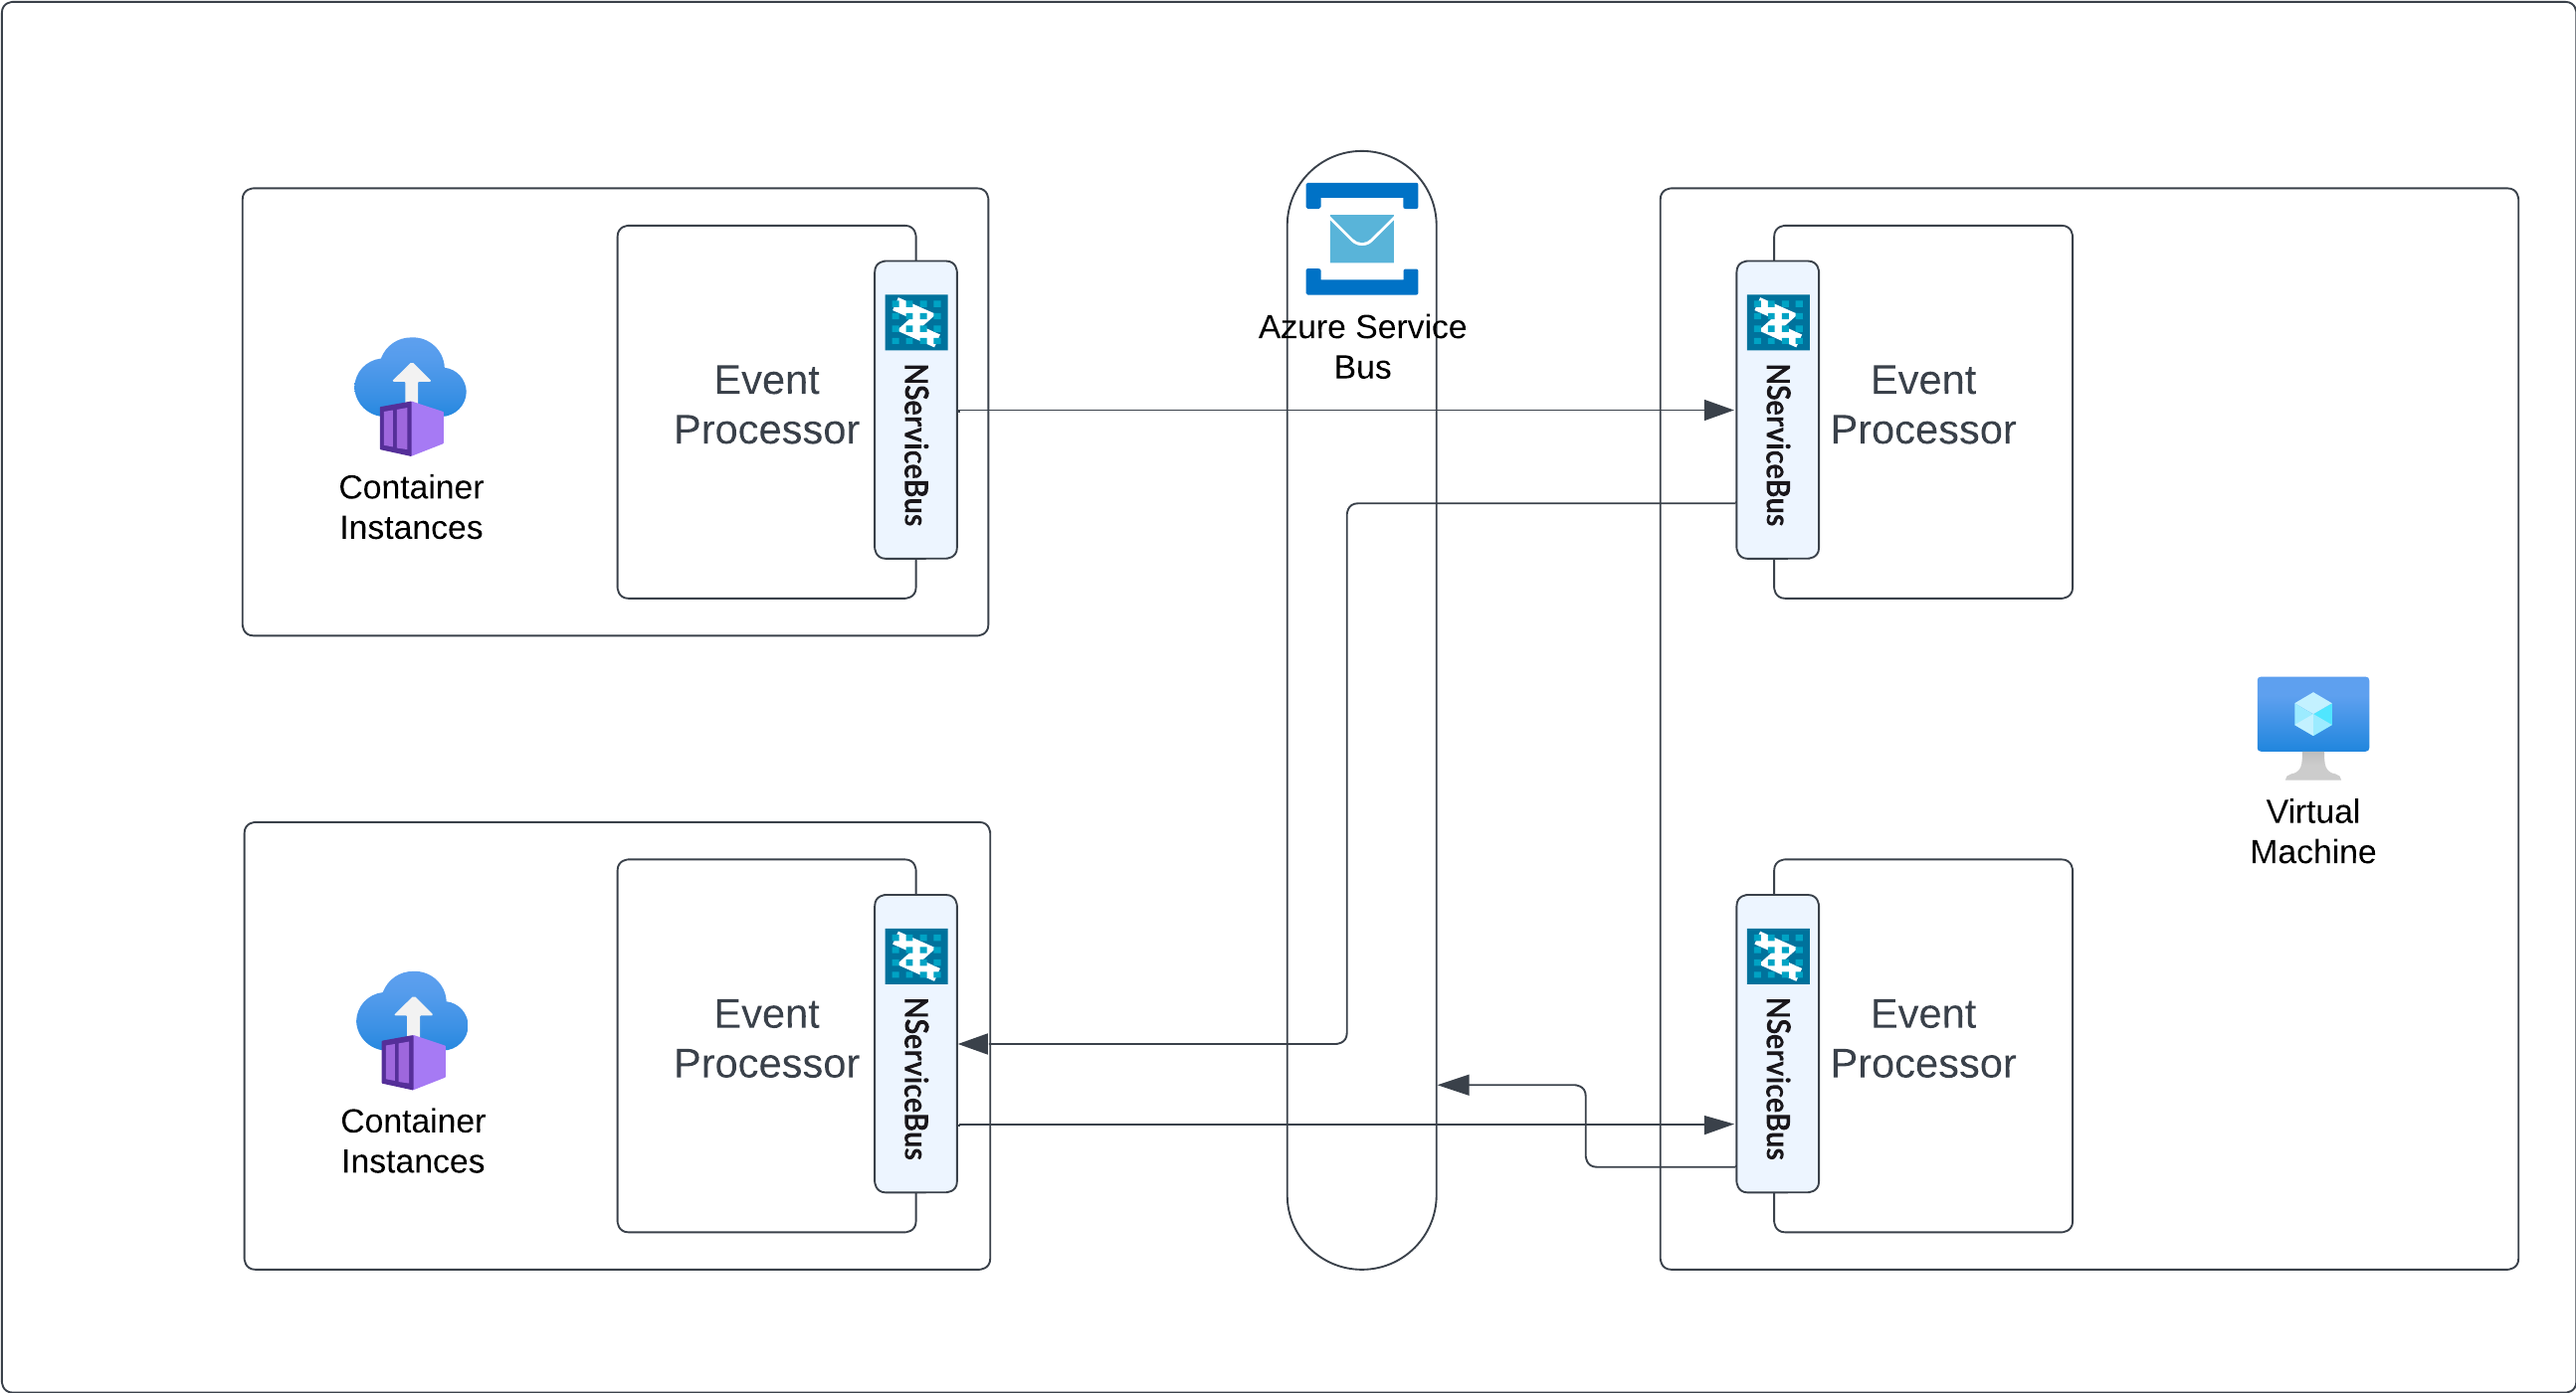
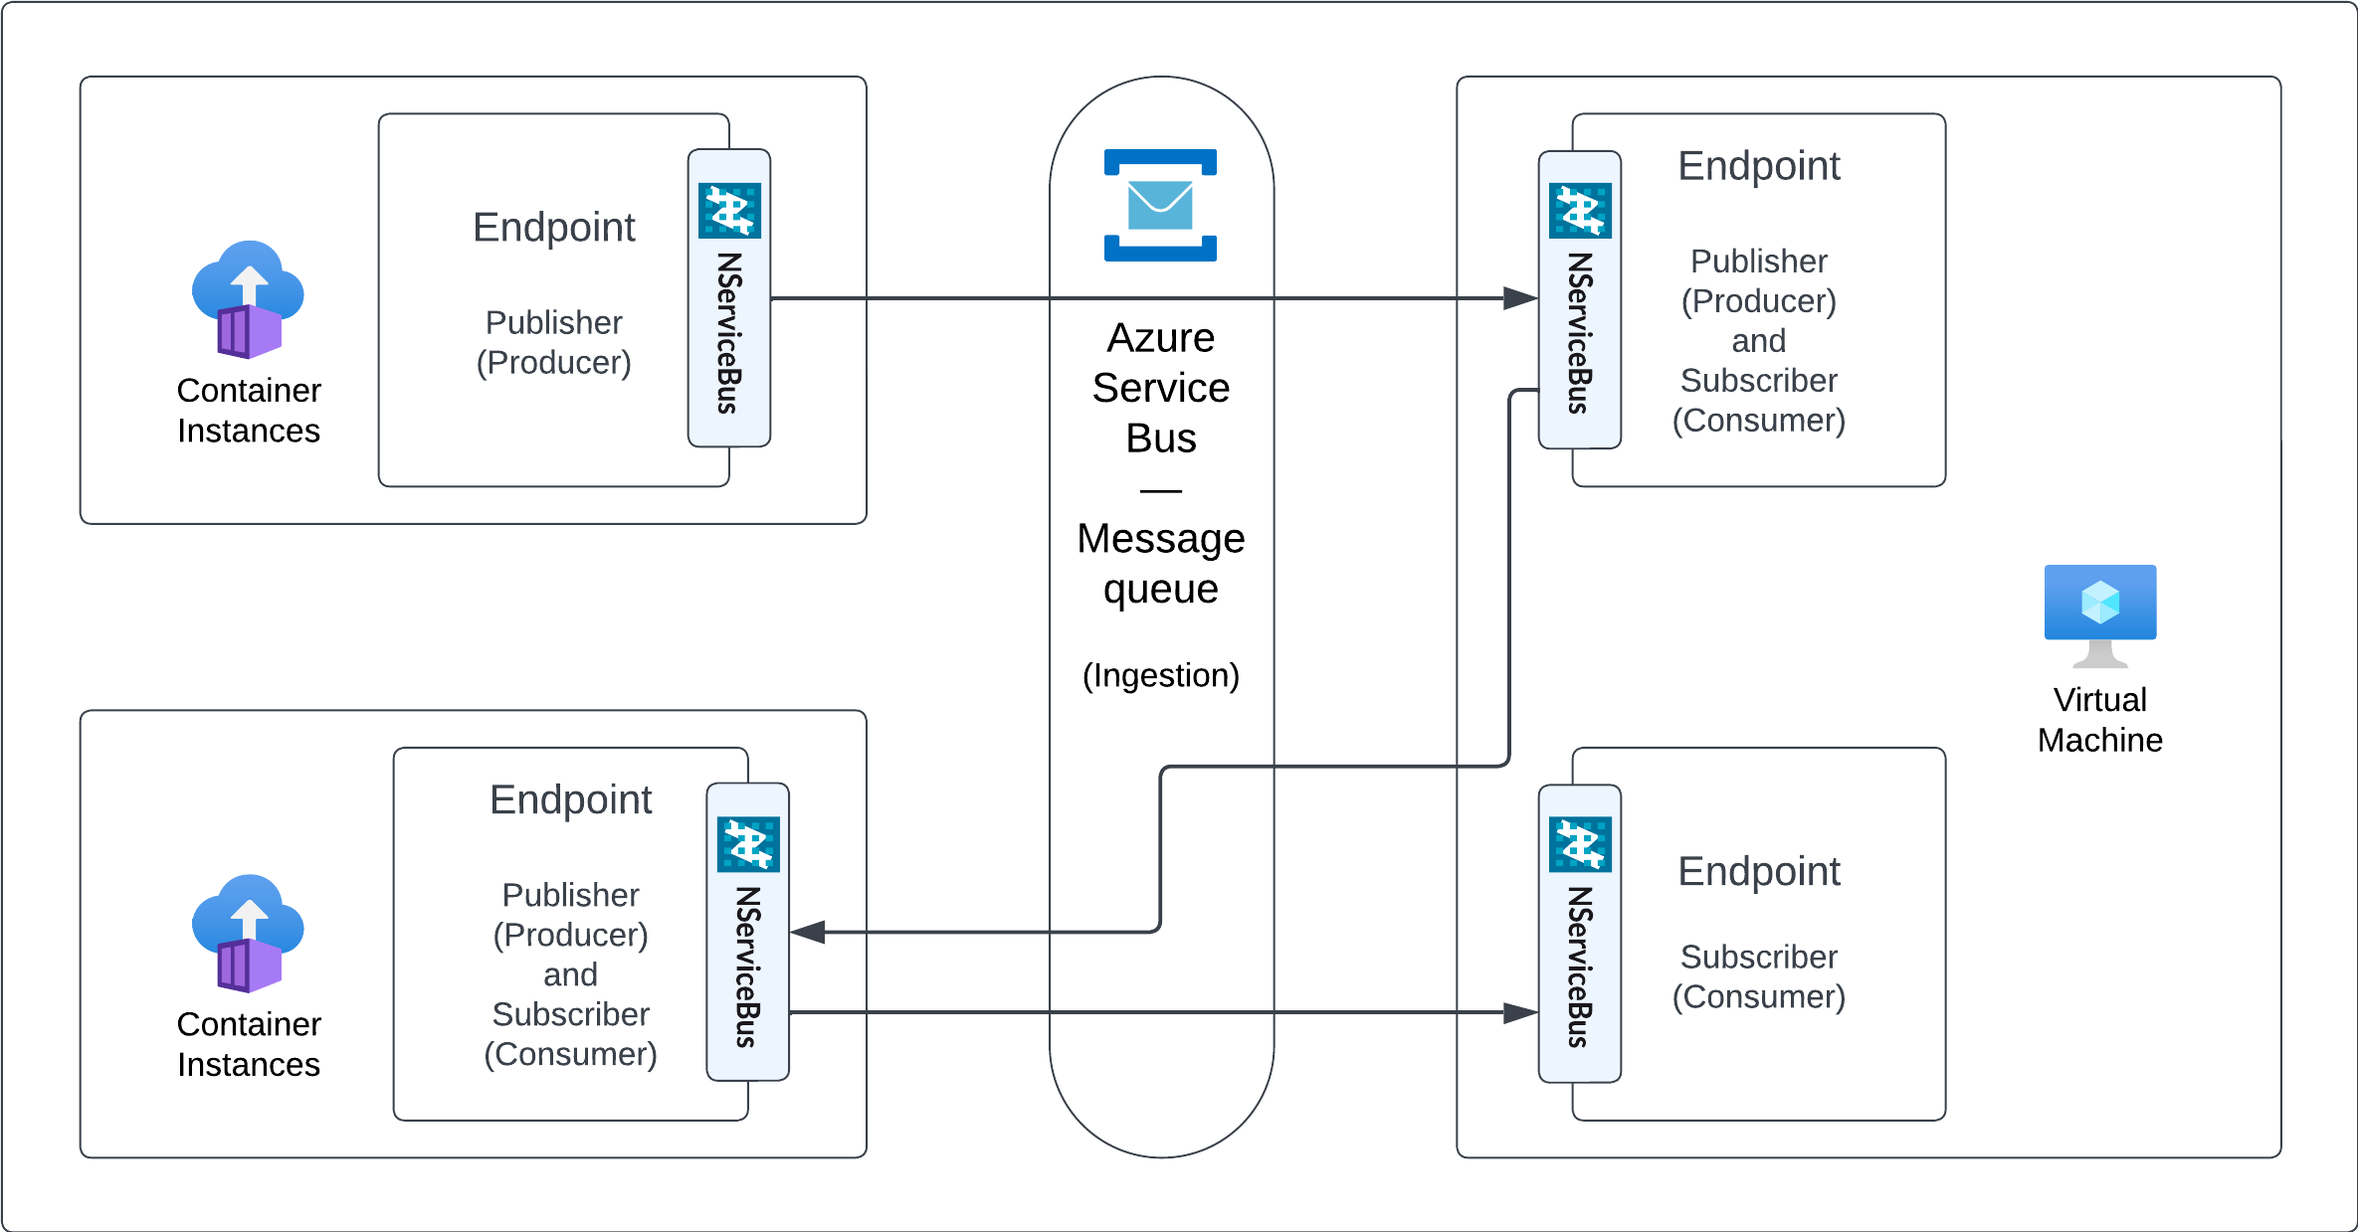
tweak Azure index and EDA pages

diff --git a/architecture/azure/event-driven-architecture.md b/architecture/azure/event-driven-architecture.md
@@ -1,10 +1,12 @@
 ---
-title: Event-driven Architectures
+title: Event-driven architecture style on Azure
 summary:
 reviewed: 2023-07-18
 ---
 
-include: architecture-style-note
+The Azure Architecture Center describes [event-driven architecture style](https://learn.microsoft.com/en-us/azure/architecture/guide/architecture-styles/event-driven) as consisting of event producers and event consumers which can use the [publish/subscribe](https://learn.microsoft.com/en-us/azure/architecture/patterns/publisher-subscriber) (also called pub/sub) model.
+
+The Particular Service Platform implements [pub/sub](/nservicebus/messaging/publish-subscribe/), with each NServiceBus [endpoint](/nservicebus/endpoints) acting as a publisher (event producer) and/or subscriber (endpoint consumer).
 
 ![](event-driven-architecture.png)
 
@@ -12,17 +14,17 @@ Event-driven architectures contain decoupled event processing components that as
 
 ### Components
 
-* Event Publisher: A component publishes events for meaningful business events in a reliable fire-and-forget style. It has no knowledge about the subscribed components (there may be none).
-* Event Subscribers: A component that subscribed to a specific event to react to it. A subscriber might also be an event publisher at the same time, as processing events might lead to further business events.
-* Message queue: The message queue brings together publisher and subscriber without having the components requiring explicit references or dependencies of each other.
+* NServiceBus Publisher (event producer): Publishes events with business meaning in a reliable fire-and-forget style and has no knowledge of subscribers (there may be none).
+* NServiceBus Subscriber (event consumer): Subscribed to a specific event type and reacts to it. A subscriber may also be an event publisher, since processing an event may lead to publishing more events.
+* Azure Service Bus message queue: The message queue brings together publisher and subscriber without them explicitly referencing or depending on each other.
 
 ### Challenges
 
-* Message order: Subscribers cannot rely on a strict order of incoming messages. There are many factors like concurrency, scaling, retries, partitioning, etc. that might cause to arrive in different order at subscribers. Well-defined events don't require strict ordering to successfully execute their business processes. Read [this blog post](https://particular.net/blog/you-dont-need-ordered-delivery) for more details.
-* event data: messages containing too much data can be an indication of technical instead of domain partitioned service boundaries. In combination with ordering limitations, event-driven architecture is not a good solution to synchronize data across a message queue. Read [putting events on a dient](https://particular.net/blog/putting-your-events-on-a-diet) for more guidance on how to design lightweight event contracts.
+* Event order: Subscribers cannot rely on the order they receive published events, which may be affected by many factors such as concurrency, scaling, retries, partitioning, etc. Events and subscribers should be designed so that they [do not rely on strict ordering to execute business processes](https://particular.net/blog/you-dont-need-ordered-delivery).
+* Event data: messages passing through service boundaries should not contain any data. If they do, that may be an indication of sub-optimal service boundaries, perhaps drawn along technical constraints rather than business rules. Events should be designed as [lightweight contracts](https://particular.net/blog/putting-your-events-on-a-diet).
 
 ### Technology choices
 
-Event-driven architectures are very flexible about technology choices. Due to the strong decoupling between components, the most suitable computing and database option can be chosen for a specific component or set of components.
+In event-driven architectures, components are decoupled, allowing the most suitable [compute](compute.md) and [data store](data-stores.md) option to be chosen for a specific component or set of components.
 
-The message queue requires support for publish/subscribe communication. NServiceBus can provide pub/sub communication for both Azure Service Bus and Azure Storage Queues. Refer to the messaging technology options documentation to read more about finding the appropriate messaging service.
+The message queue must support the pub/sub model. NServiceBus provides pub/sub for [both Azure Service Bus and Azure Storage Queues](messaging.md).

diff --git a/architecture/azure/microservices.md b/architecture/azure/microservices.md
@@ -1,10 +1,8 @@
 ---
-title: Microservice architectures on Azure
+title: Microservice architecture style on Azure
 summary:
 reviewed: 2023-07-18
 ---
-
-include: architecture-style-note
 
 ![](azure-microservices.png)
 
@@ -22,7 +20,7 @@ Microservices architectures often contain the following components:
 
 ### Finding service boundaries
 
-Finding the right service boundaries is one of the biggest challenges of any microservice architecture. Incorrect boundaries will lead violation of data isolation and excessive inter-service communication. This can lead to high coupling between services in order to implement a business processes, often referred to as a distributed monolith. Focusing on domain partitioning instead of technical partitioning is crucial to define autonomous service boundaries. 
+Finding the right service boundaries is one of the biggest challenges of any microservice architecture. Incorrect boundaries will lead violation of data isolation and excessive inter-service communication. This can lead to high coupling between services in order to implement a business processes, often referred to as a distributed monolith. Focusing on domain partitioning instead of technical partitioning is crucial to define autonomous service boundaries.
 
 <iframe allowfullscreen frameborder="0" height="300" mozallowfullscreen src="https://player.vimeo.com/video/113515335" webkitallowfullscreen width="400"></iframe>
 
@@ -38,7 +36,7 @@ Communication across services is much slower and error-prone due to network limi
 
 ### User interfaces
 
-Users interacting with the system often need to see data aggregated from multiple services. Maintaining high decoupling across services while providing meaningful user experiences. A wide range of technologies and patterns exist that are focusing on this problem type, e.g. Microfrontends, GrapQL, ViewModel Composition, etc. 
+Users interacting with the system often need to see data aggregated from multiple services. Maintaining high decoupling across services while providing meaningful user experiences. A wide range of technologies and patterns exist that are focusing on this problem type, e.g. Microfrontends, GrapQL, ViewModel Composition, etc.
 
 ## Microservice technologies
 
@@ -48,7 +46,7 @@ For cloud native microservices architectures, services are commonly hosted using
 
 ### Serverless
 
-Fully managed serverless offerings like [Azure Functions](https://azure.microsoft.com/en-us/products/functions) and [Azure App Services](https://azure.microsoft.com/en-us/products/app-service/) are popular choices when development teams need powerful and scalable hosting environments that require little management effort. 
+Fully managed serverless offerings like [Azure Functions](https://azure.microsoft.com/en-us/products/functions) and [Azure App Services](https://azure.microsoft.com/en-us/products/app-service/) are popular choices when development teams need powerful and scalable hosting environments that require little management effort.
 Serverless hosting models also integrate seamlessly into serverless data storage and messaging technologies.
 
 ![](azure-functions-host.png)

diff --git a/architecture/azure/index.md b/architecture/azure/index.md
@@ -5,15 +5,11 @@ reviewed: 2023-07-18
 suppressRelated: true
 ---
 
-
-
 The Azure Architecture Center organizes application architecture fundamentals guidance as a [series of steps](https://learn.microsoft.com/en-us/azure/architecture/guide/#how-this-guidance-is-structured):
 
 ## Architecture styles
 
-The choice of [architectural styles](https://learn.microsoft.com/en-us/azure/architecture/guide/architecture-styles/) has broad impact on subsequent steps in designing a system architecture.
-
-The Particular Service Platform supports the messaging patterns recommended by the Azure Architecture Center for the following widely used architectural styles:
+The Particular Service Platform supports the messaging patterns recommended by the Azure Architecture Center for the following [architectural styles](https://learn.microsoft.com/en-us/azure/architecture/guide/architecture-styles/):
 
 * [Event driven architecture](/architecture/azure/event-driven-architecture.md)
 * [Microservices architecture](/architecture/azure/microservices.md)

diff --git a/architecture/azure/web-queue-worker.md b/architecture/azure/web-queue-worker.md
@@ -1,10 +1,8 @@
 ---
-title: Web-queue-worker architectures on Azure
+title: Web-queue-Worker architecture style on Azure
 summary:
 reviewed: 2023-07-18
 ---
-
-include: architecture-style-note
 
 ![](azure-web-queue-worker.png)
 

diff --git a/architecture/azure/n-tier.md b/architecture/azure/n-tier.md
@@ -1,10 +1,8 @@
 ---
-title: N-tier Architectures
+title: N-tier architecture style on Azure
 summary:
 reviewed: 2023-07-18
 ---
-
-include: architecture-style-note
 
 ![](azure-layered-architecture.png)
 
